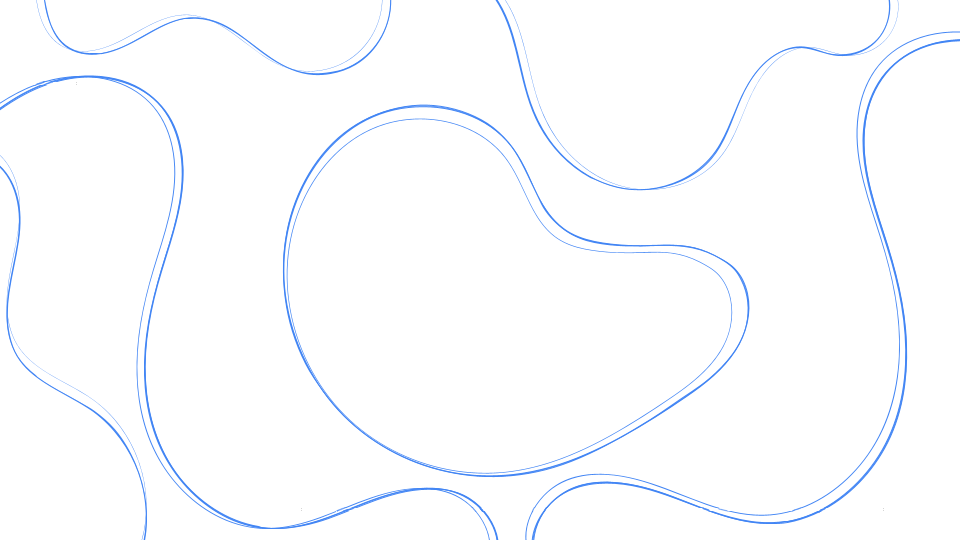
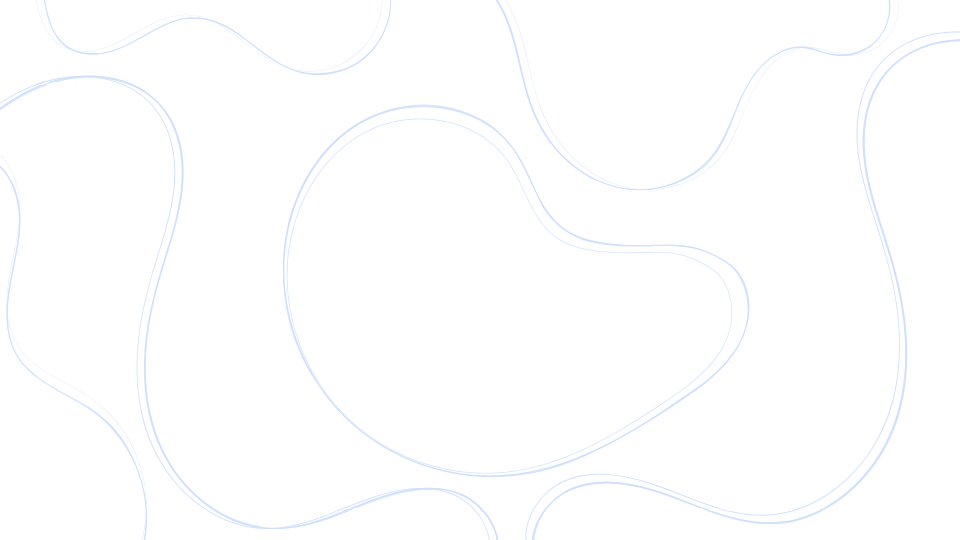
css fix for background opacity

diff --git a/src/App.tsx b/src/App.tsx
@@ -1,12 +1,11 @@
+import { BrowserRouter as Router, Route, Routes } from 'react-router-dom'
+import { Home } from './pages/Home'
+import { Interview } from './pages/Interview'
 
-import { BrowserRouter as Router,Route, Routes } from 'react-router-dom'
-import {Home} from './pages/Home'
-import {Interview} from './pages/Interview'
 function App() {
-
   return (
     <>
-      <div className="w-screen h-screen bg-primary z-0 relative text-white">
+      <div className="w-screen h-screen bg-primary z-0 relative text-white bg-base">
         <Router>
           <Routes>
             <Route path="/" element={<Home />} />
